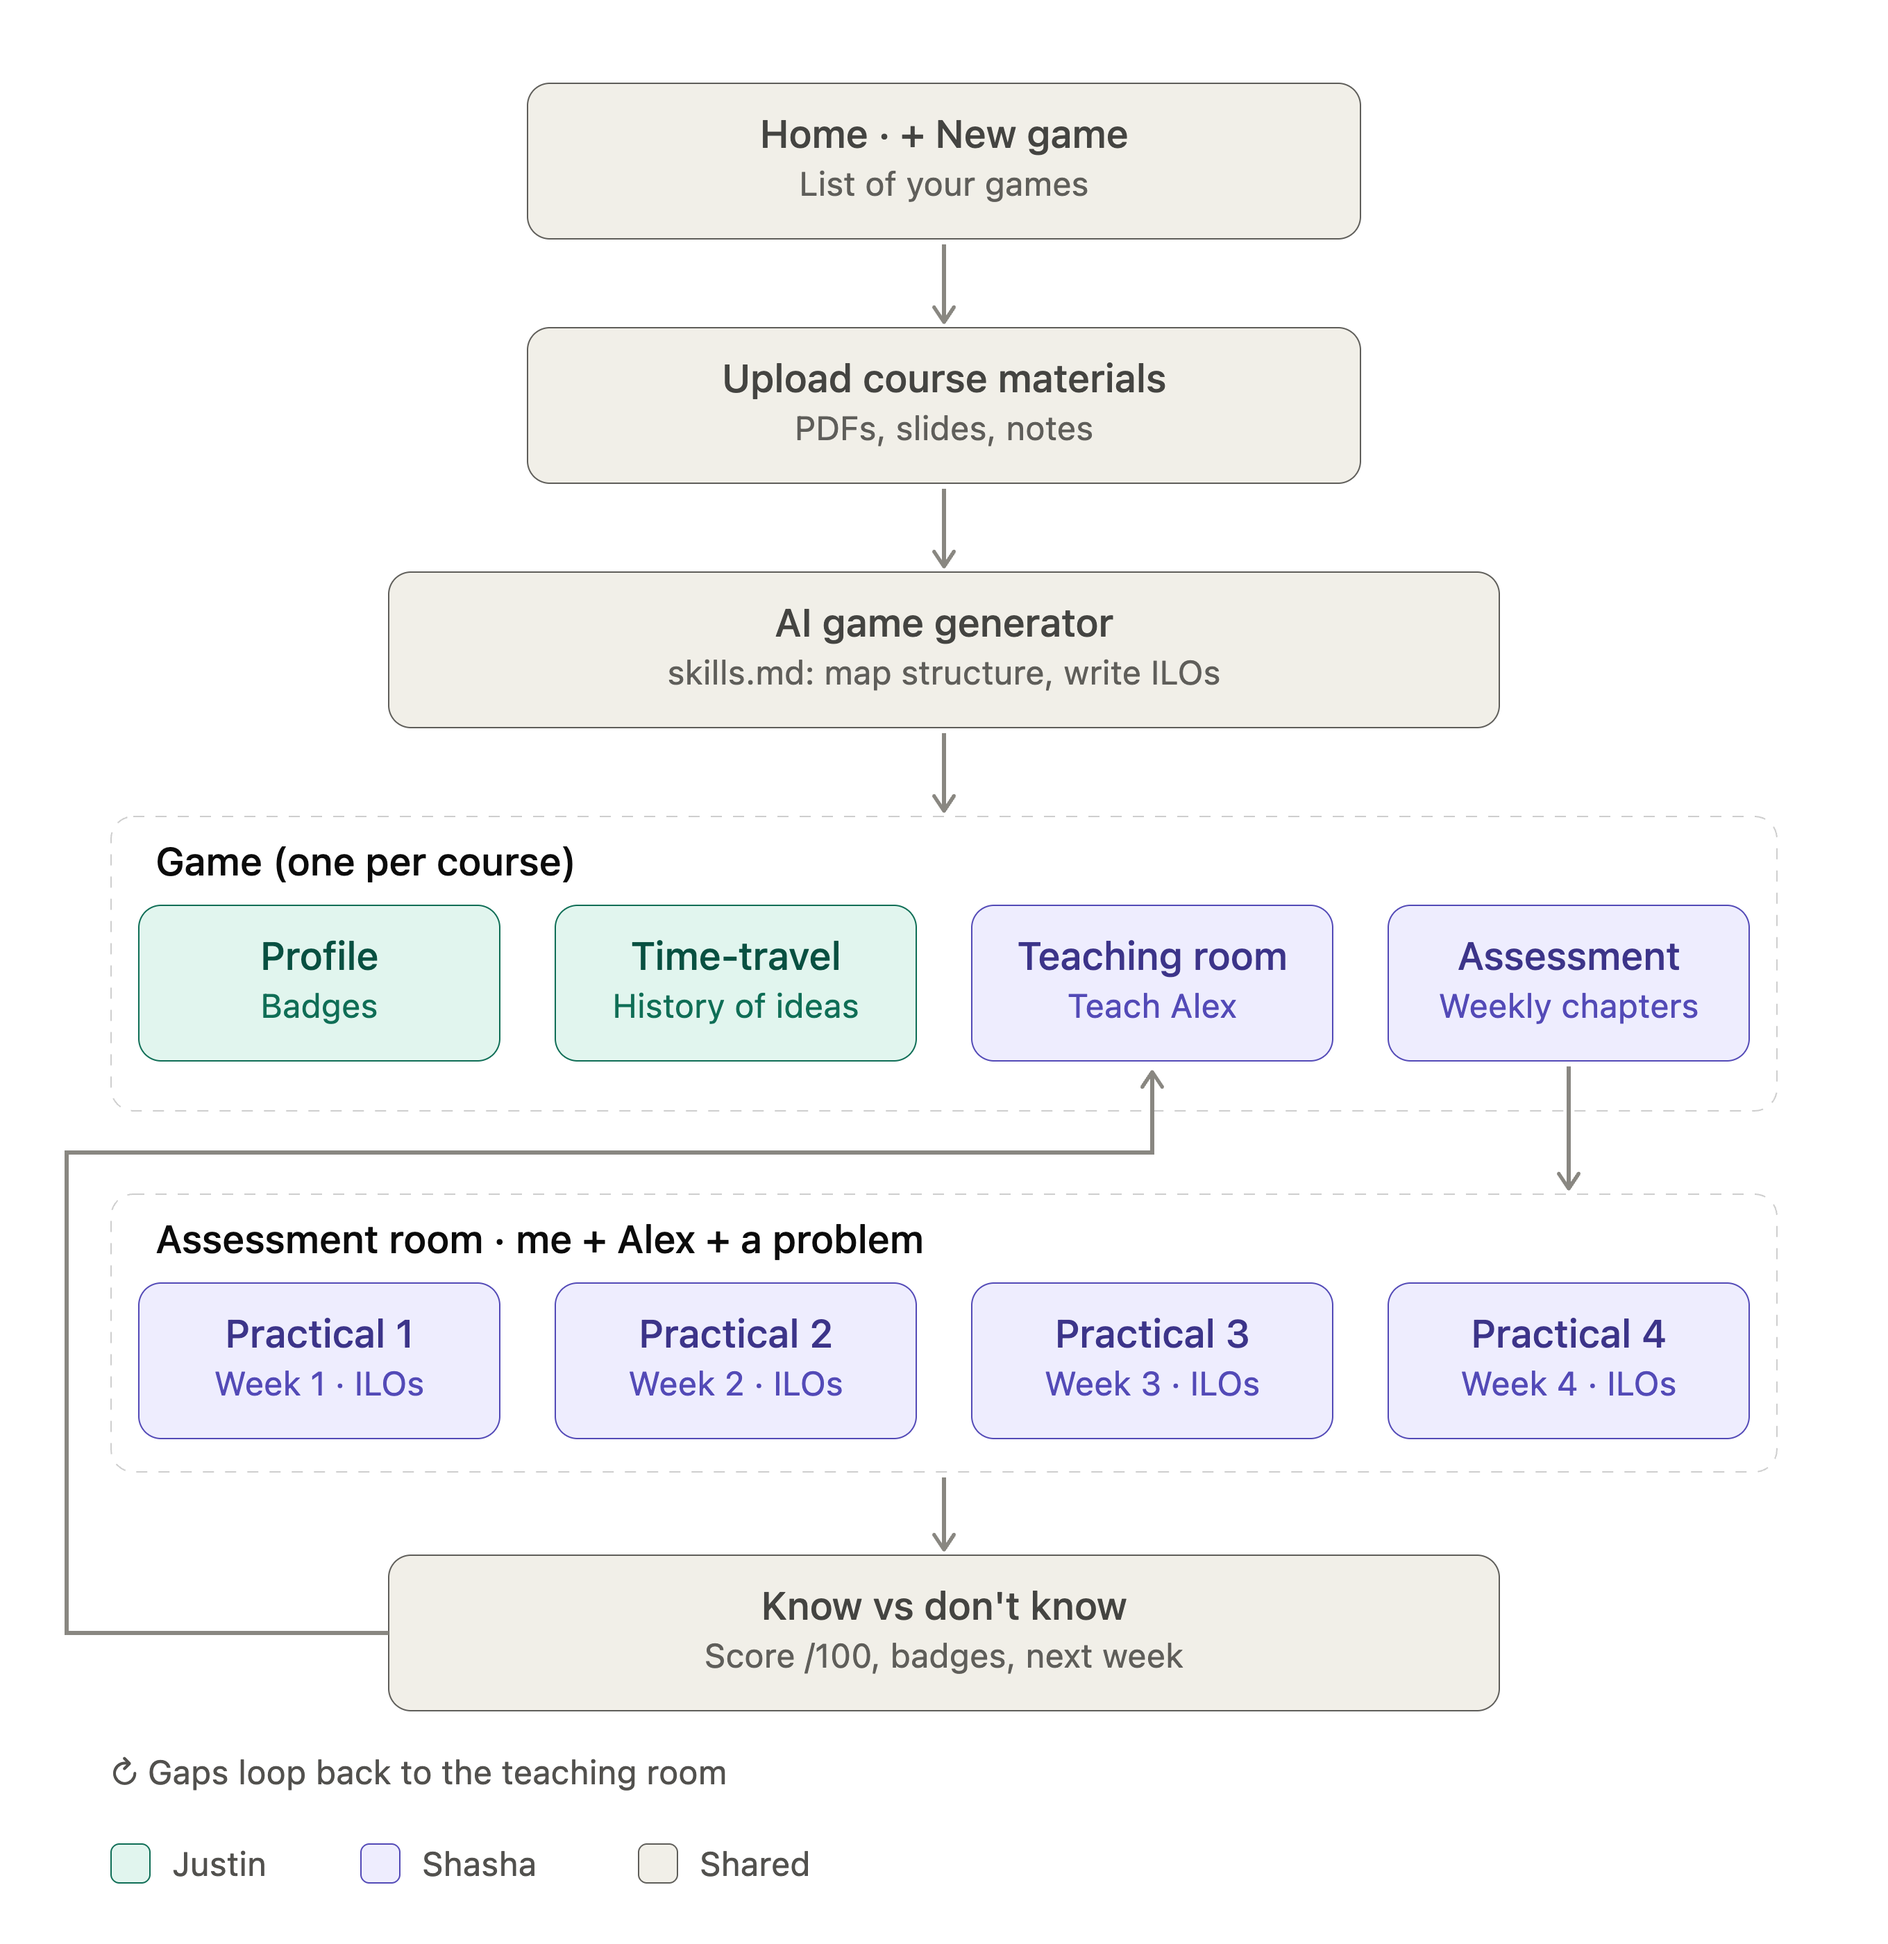
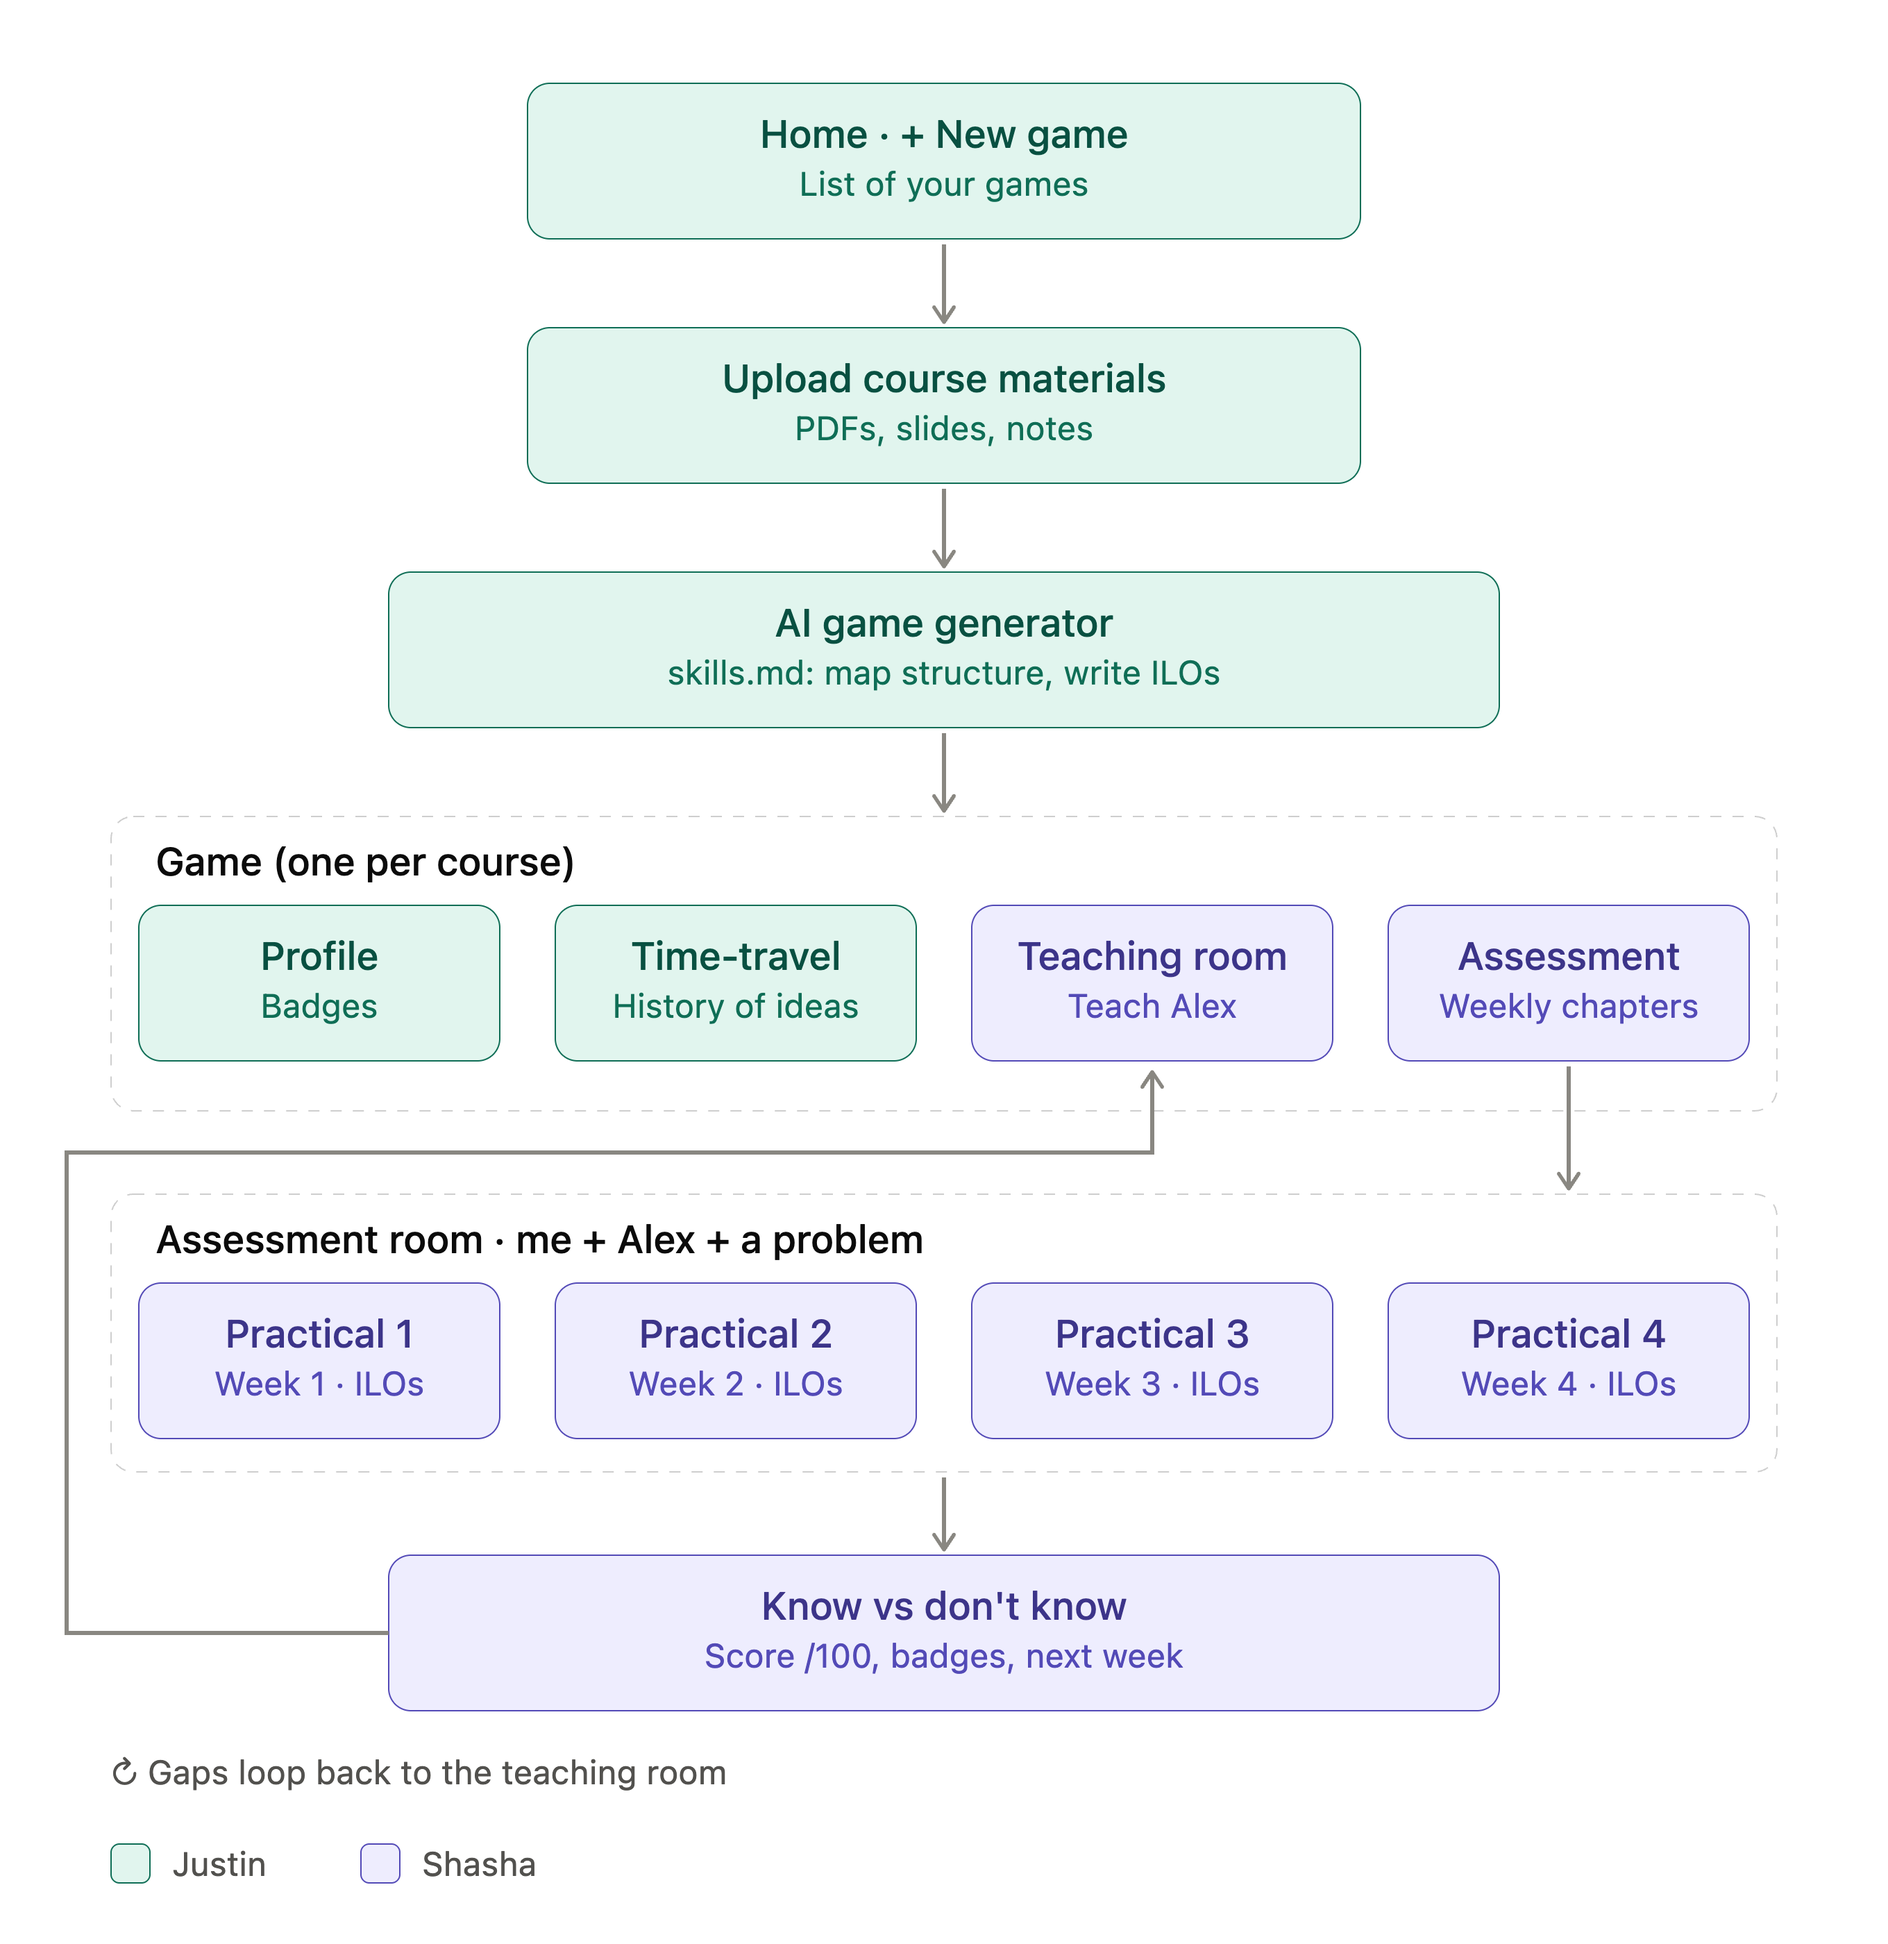
Update app flow diagram and ownership in README

diff --git a/README.md b/README.md
@@ -36,26 +36,27 @@ Home
                 └── Assessment room  → weekly interactive task: me + Alex + a problem
 ```
 
-### 2.1 Home
+### 2.1 Home, upload + AI game generator (owner: **Justin**)
 - Lists all games the user has created.
 - `+` button opens the "New game" flow (upload materials → generate game).
+- AI game generator (`skills.md`): maps the course structure into chapters and writes ILOs for each week.
 
-### 2.2 Profile
+### 2.2 Profile (owner: **Justin**)
 - Badges, stars per chapter, overall progress.
 - Alex's brain map (what Alex currently knows / misunderstands). *(stretch)*
 
-### 2.3 Time-travel (owner: **me**)
+### 2.3 Time-travel (owner: **Justin**)
 - The course as a timeline of historical eras; each era is a chapter with one learning outcome.
 - Example (PCB): 1930s wiring nightmare → 1940s built to survive → 1960s–80s density → today signal integrity.
 - Handles: chapter generation from course materials, the era's mentor character, knowledge debt across eras.
 - *Details to be defined.*
 
-### 2.4 Teaching room (owner: **friend**)
+### 2.4 Teaching room (owner: **Shasha**)
 - Student explains the concept to Alex by chat (and sketching, stretch).
 - Alex asks naive questions, interrupts on jargon, and builds his "brain" only from what he is taught.
 - Alex teaches it back at the end, including the student's mistakes.
 
-### 2.5 Assessment room (owner: **friend**)
+### 2.5 Assessment room (owner: **Shasha**)
 - Weekly interactive task: the student and Alex solve a problem together.
 - Alex applies only what he was taught; misconceptions show up as failures.
 - Candidate mechanics: predict-the-failure, mission control (pause / limited hints), curveball constraint, sabotage heist, Alex's planted false statement, short oral defence.
@@ -117,10 +118,12 @@ Home
 
 | Area | Owner |
 |---|---|
-| Home, upload flow, profile | TBD |
-| Time-travel | Me |
-| Teaching room | Friend |
-| Assessment room | Friend |
+| Home, upload flow, AI game generator | Justin |
+| Profile (badges) | Justin |
+| Time-travel | Justin |
+| Teaching room | Shasha |
+| Assessment room (weekly practicals) | Shasha |
+| Results: know vs don't know (score /100, badges, next week) | Shasha |
 | Shared data model (`AlexBrain` etc.) | Both |
 
 ---
